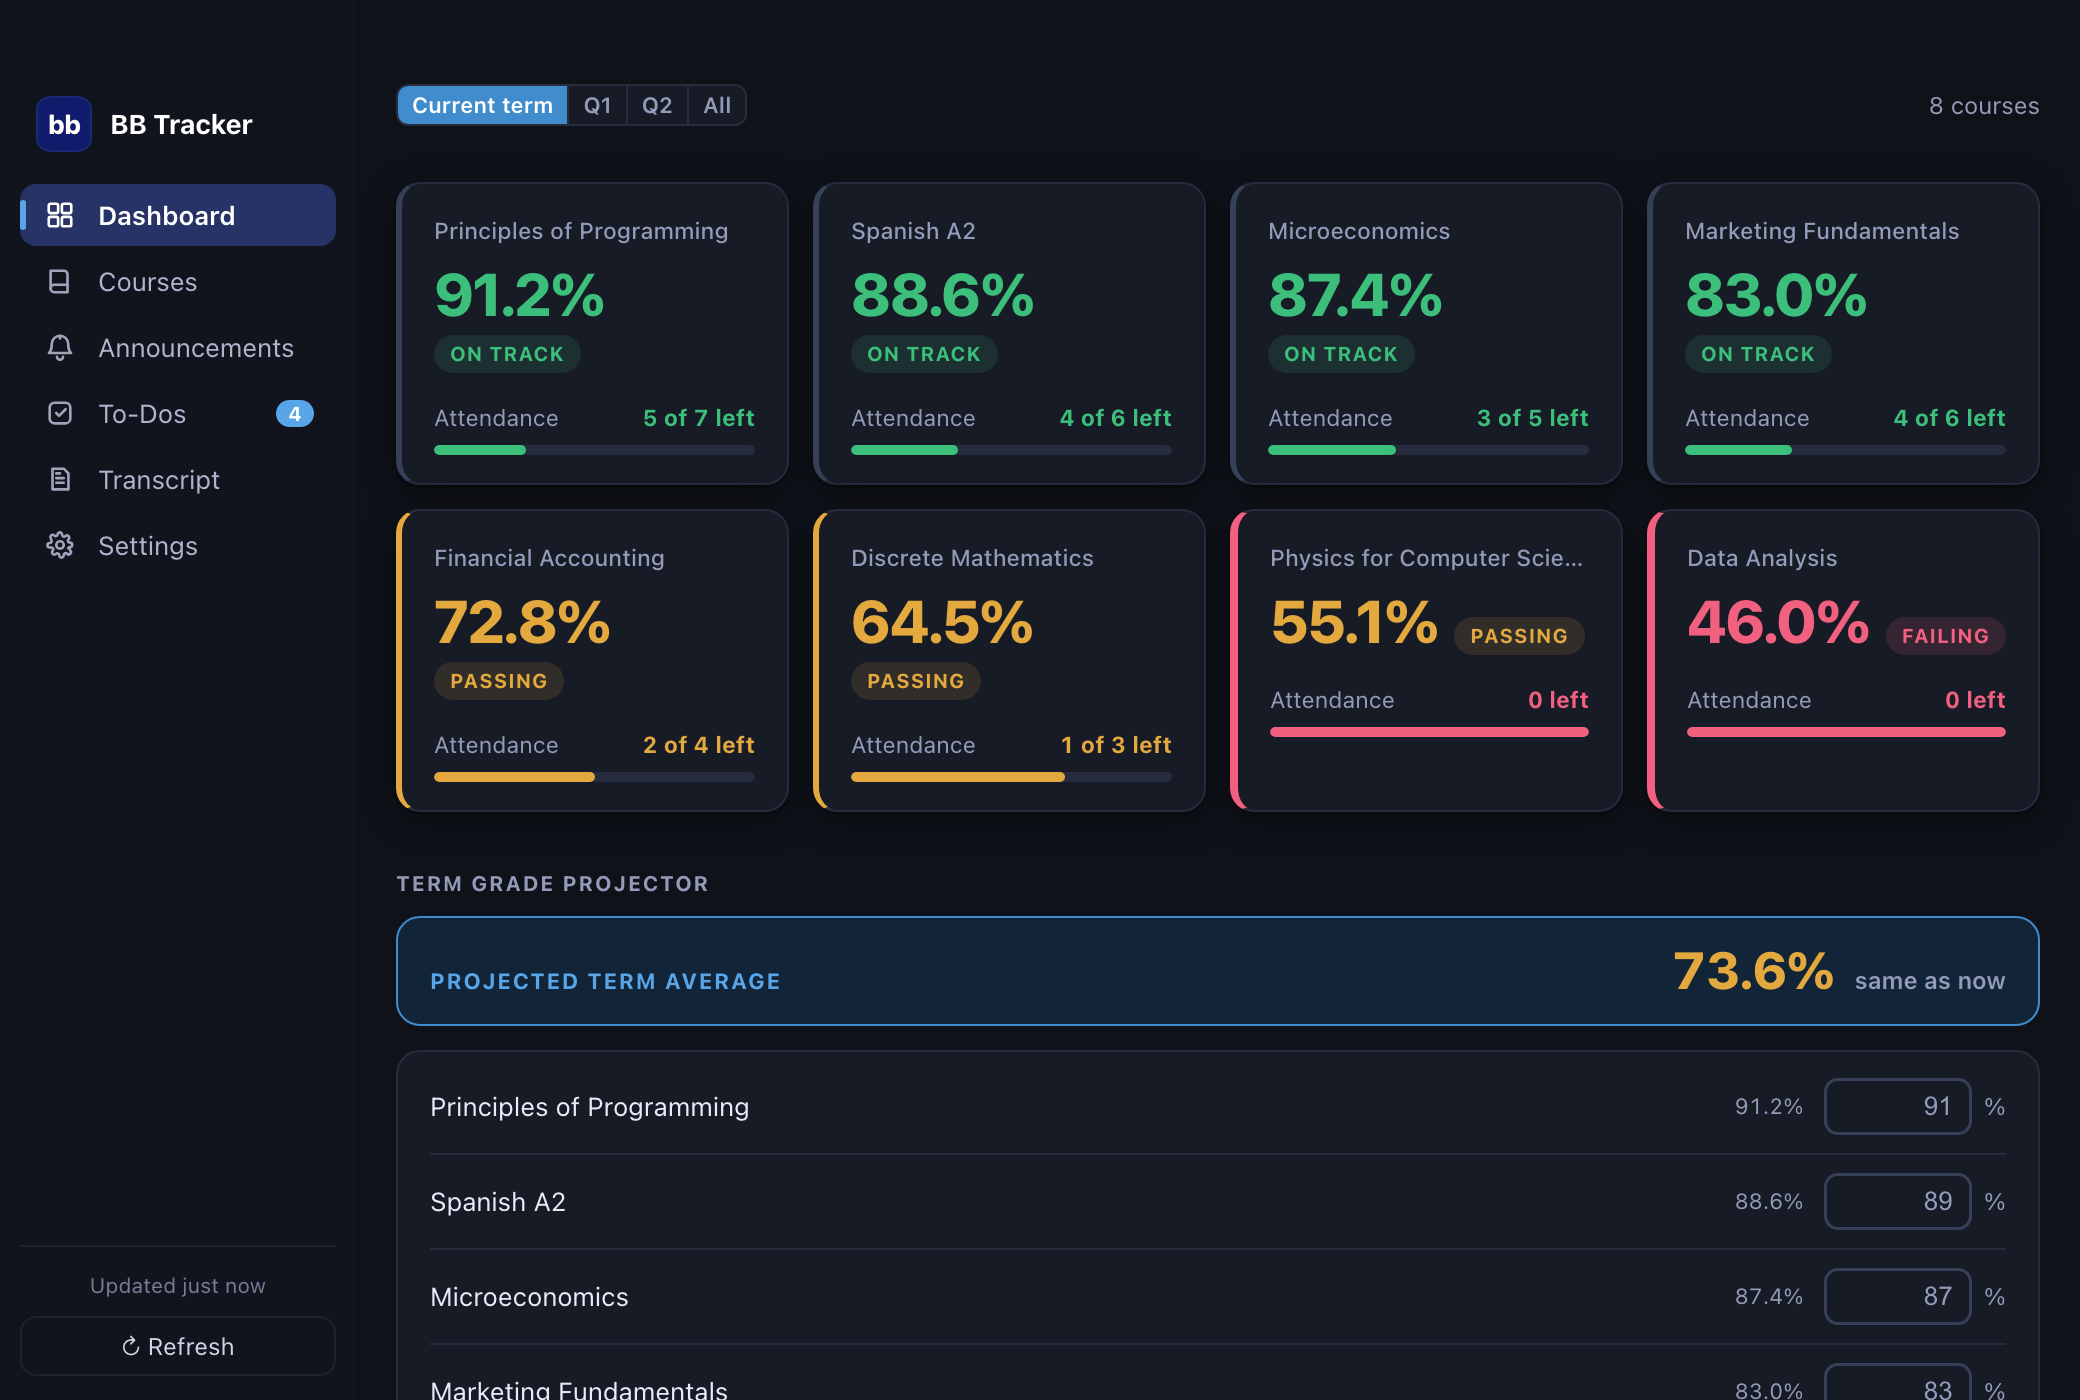
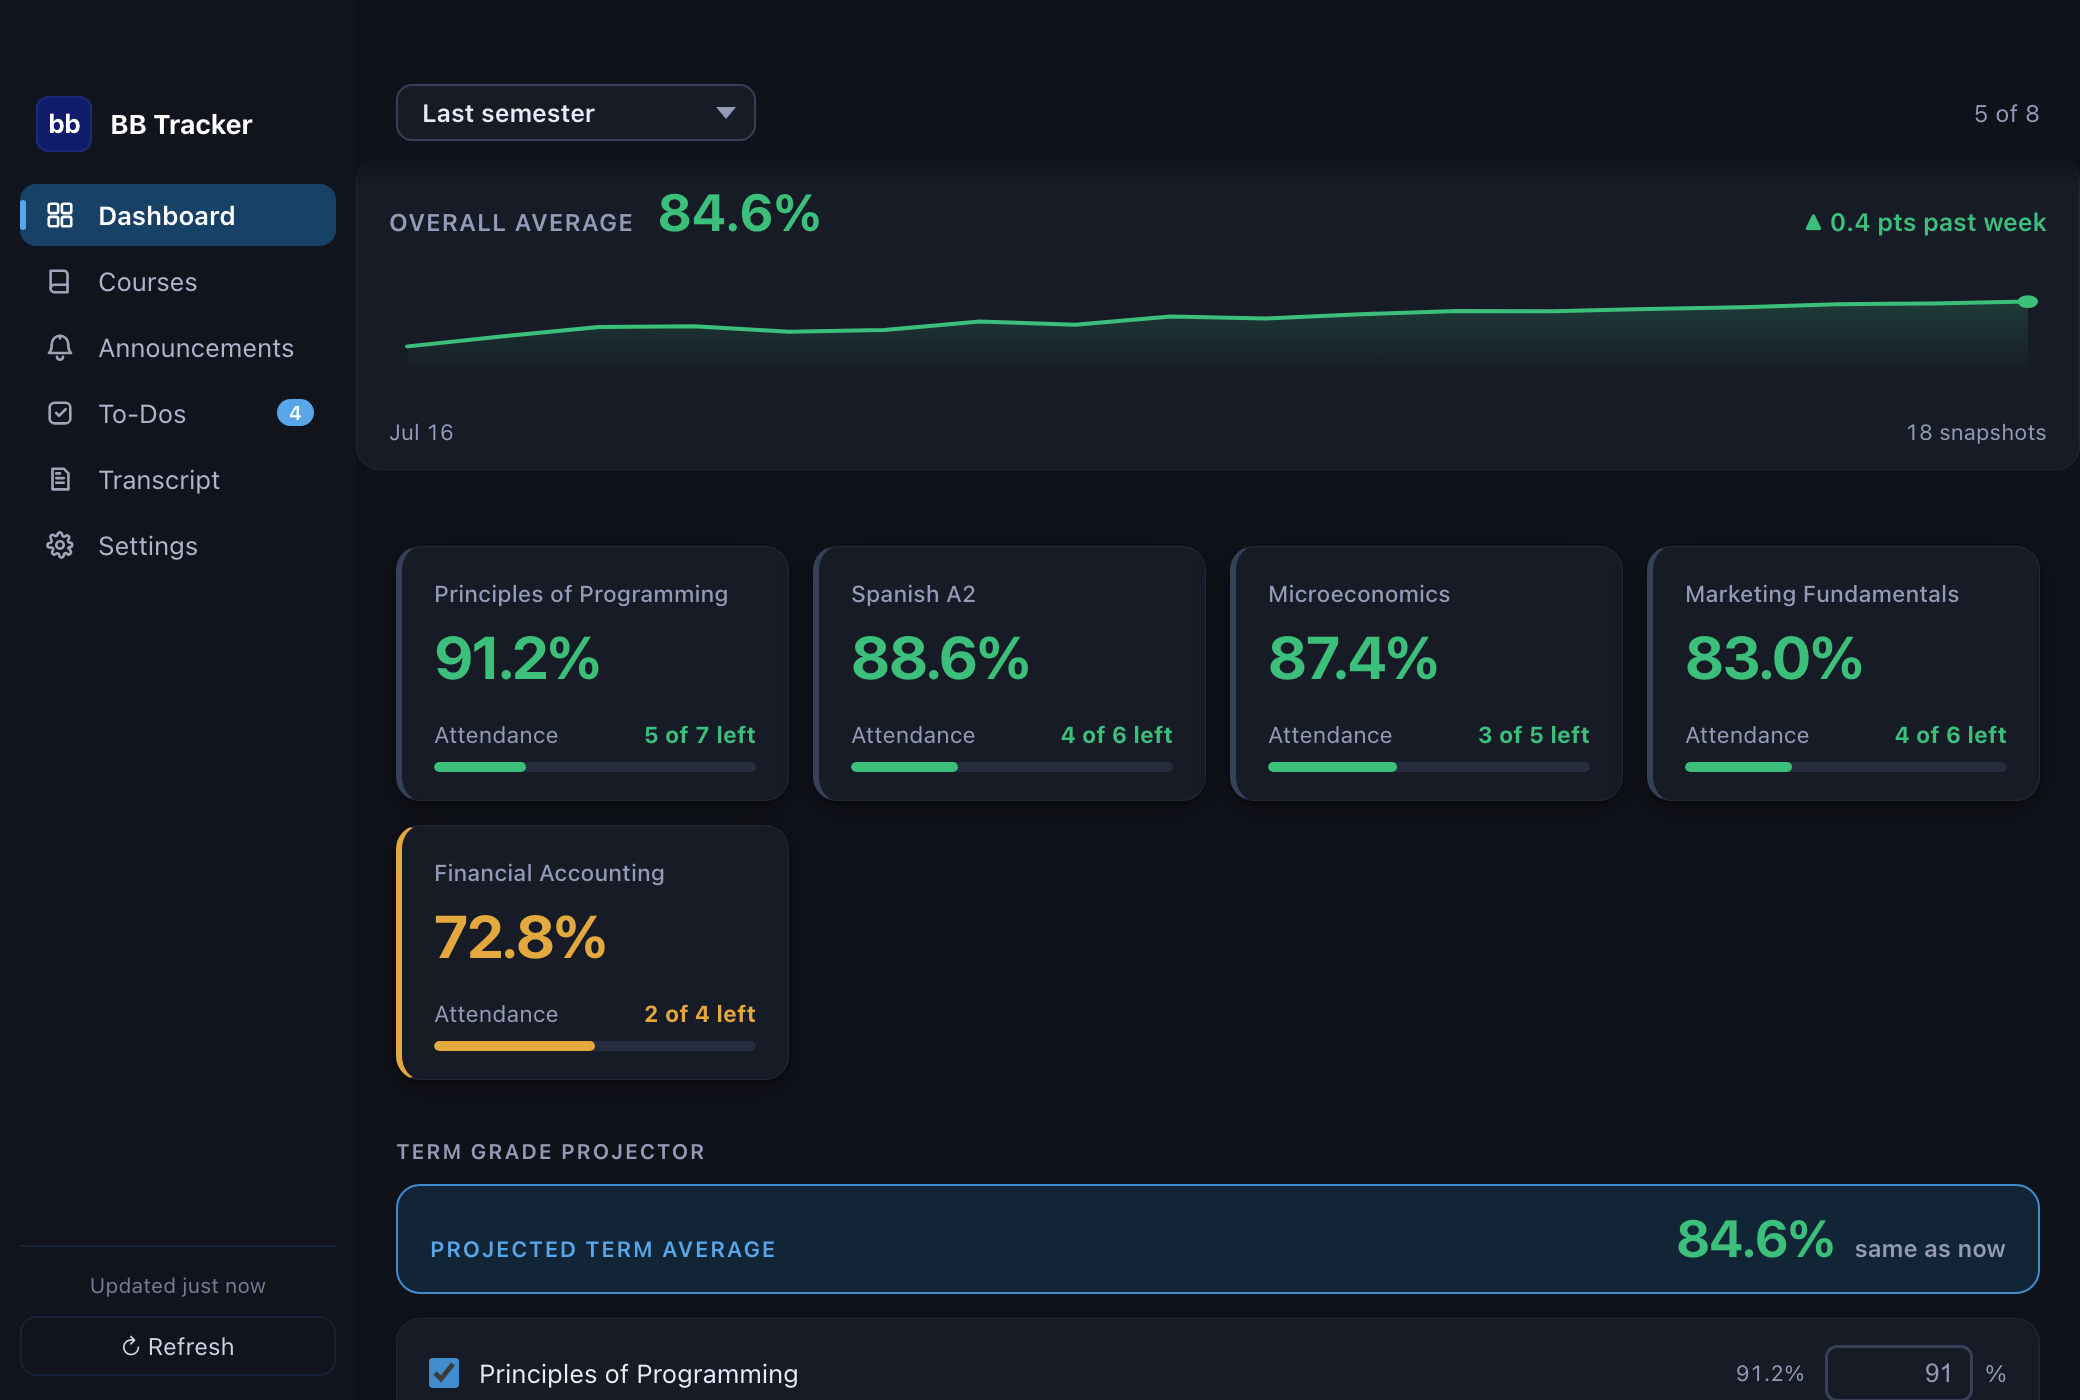
Bring the landing material up to what the app does now
The story section still said I was polishing for a launch in September, which
is both behind us and the exact line the website dropped for reading as "not
ready yet" directly above a Download link.

Four things the app has grown since this was written: exams on the deadline
list, which Blackboard has no gradebook column for and which nothing could
see before; a calendar of its own that each sync keeps current; a watch on
the syllabus, so a mid-term reweight is something you are told about rather
than something you infer from a moving number; and a projector that covers
the whole term, with the dropped quiz marked as dropped.

The privacy list also claimed more than the app does. "No crash uploads" has
not been true since opt-in crash reporting shipped, and a privacy promise
that overstates itself is worth less than the smaller true one: the report is
off unless you turn it on, and it carries no grades or course names.

Screenshots re-rendered from the current UI.

diff --git a/README.md b/README.md
@@ -18,7 +18,7 @@
 
 I got tired of logging into Blackboard five times a day just to check if I could afford to skip one more class. So I built a little menu bar app for myself that kept track of it. Then classmates saw it on my screen and started asking where they could get it.
 
-That's when it turned into a real project. I've been building it out ever since: proper grade tracking, a GPA that actually matches the transcript, deadlines, Pearson MyLab, all of it. Right now I'm polishing everything for the official launch in September, ready for the start of the semester.
+That's when it turned into a real project. I've been building it out ever since: proper grade tracking, a GPA that actually matches the transcript, deadlines, exam dates, Pearson MyLab, all of it. It's out, it's in use, and I'm still the one who opens it first thing every morning.
 
 ## At a glance
 
@@ -34,8 +34,11 @@ A small indicator lives in your menu bar (your GPA can sit right next to the clo
 - **Attendance, computed.** It pulls your present / late / absent counts from Blackboard and tells you exactly how many classes you can still miss per course before crossing the 80% rule. No more counting on your fingers.
 - **Grades that match your transcript.** It shows Blackboard's own calculated course total, the same number that ends up on your transcript. If a course doesn't have one, it parses the syllabus weights and does the math itself.
 - **A real GPA.** Computed the way the registrar computes it: language and lab courses left out, retakes replacing fails, credits weighting each course.
-- **What-if projector.** Type a score for the final and watch your course grade move. Or flip it around and ask what you need to pass.
+- **What-if projector.** Type a score for the final and watch your course grade move. Or flip it around and ask what you need to pass. It projects the whole term at once, and you can mark the quiz your professor drops so it stops dragging the number down.
 - **Every deadline in one list.** Blackboard and Pearson MyLab due dates together in one To-Dos view. Click one and you land on the actual assignment.
+- **Exams too, which Blackboard never lists.** There is no gradebook column for a midterm or a final, so the highest-stakes dates of the term were the ones nothing could see. BB Tracker reads which session your syllabus calls an exam and takes that session's date and room from your timetable.
+- **In your calendar.** Every deadline and exam in a calendar of its own, in the Calendar app you already check. Each sync keeps it right: a due date that moves updates in place instead of leaving yesterday's copy behind.
+- **It notices when the syllabus changes.** A professor can reweight the grading mid-term and tell nobody. BB Tracker re-reads each syllabus, says what moved, and works your projected grade out against the new one.
 - **Pearson MyLab built in.** If a course runs on Pearson, those assignments and scores show up next to your Blackboard ones.
 - **Announcements that know when to bother you.** A new announcement mentioning a deadline, exam or something mandatory triggers a macOS notification. The rest stay quiet.
 - **Fully automatic.** It refreshes every two hours in the background. No tabs to keep open, nothing to maintain.
@@ -76,7 +79,7 @@ When a sync finishes, the result lives in `~/Library/Application Support/BBTrack
 I built this for myself first, so it works the way I'd want any app to work with my own grades:
 
 - **Local-only.** Your Blackboard cookies, grades and attendance never leave your Mac.
-- **No analytics.** No telemetry, no crash uploads, nothing phoning home.
+- **No analytics.** No telemetry, no third-party SDKs, nothing phoning home. Crash reporting exists, but it is off unless you switch it on during setup, and what it sends carries no grades and no course names.
 - **One exception.** The only network call outside your own Blackboard and Pearson accounts is a weekly license check with Lemon Squeezy. That's it.
 
 ## Pricing
